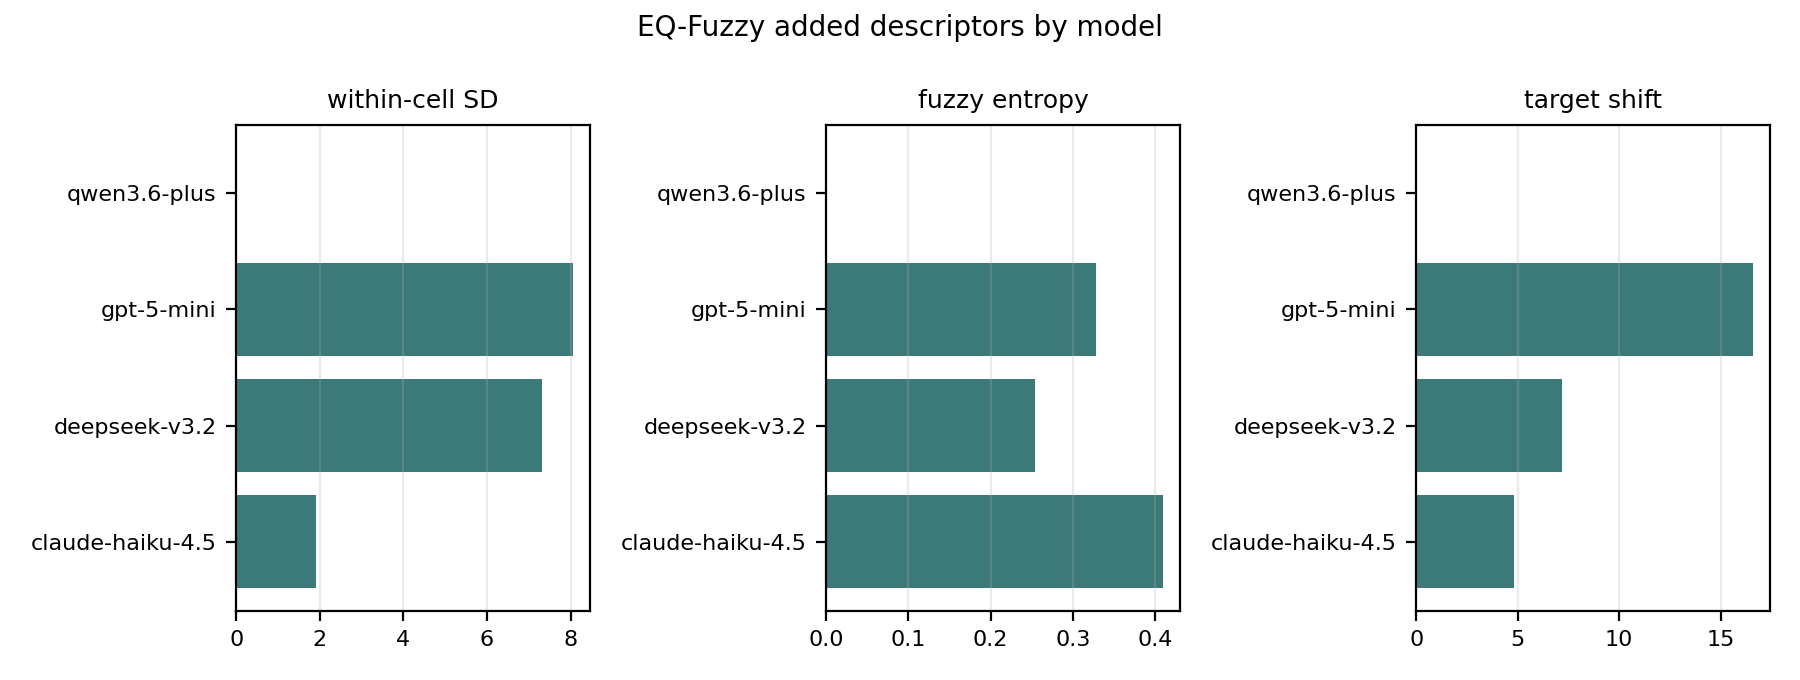
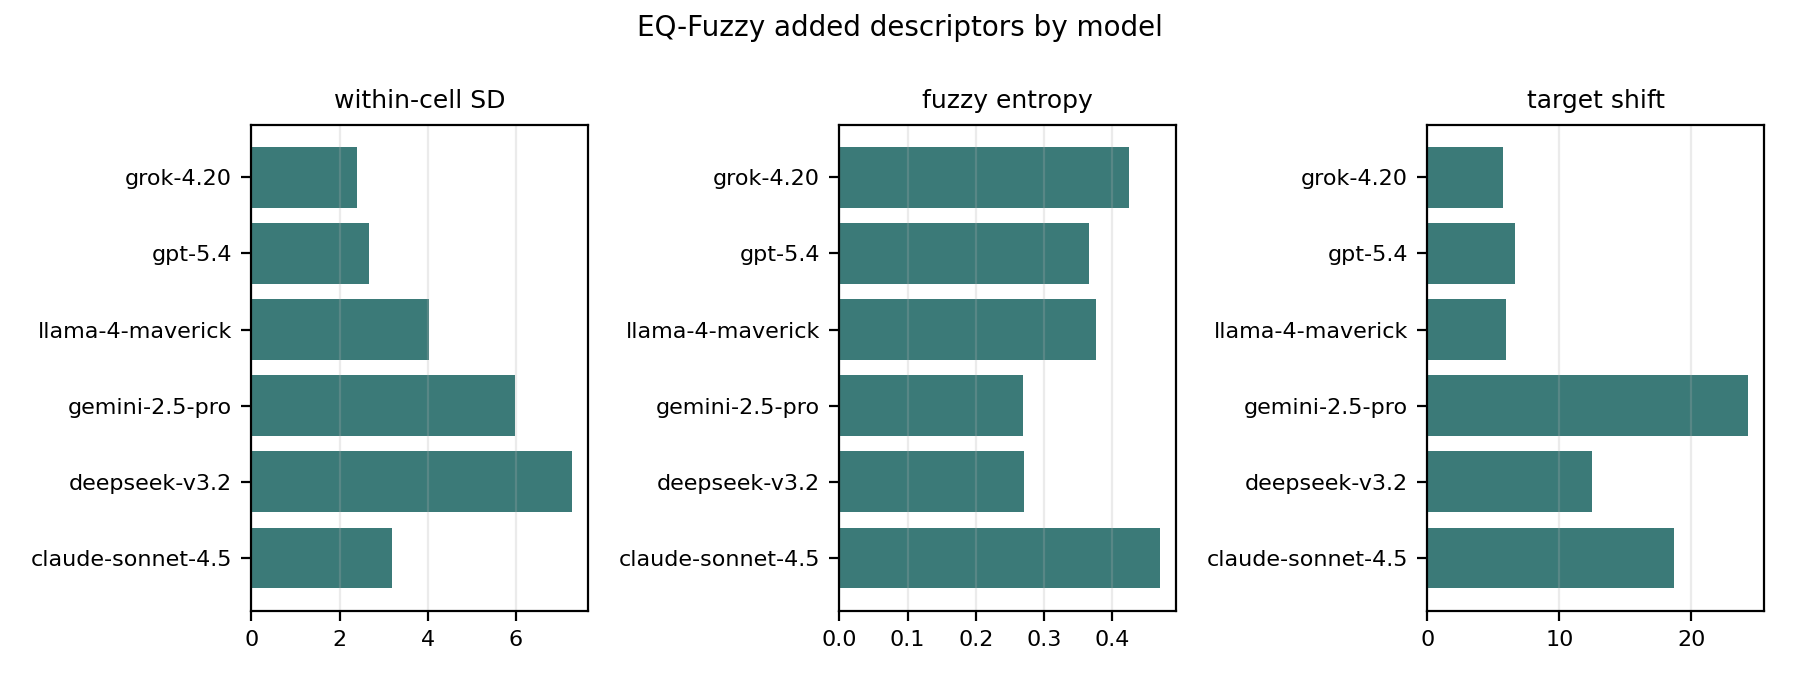
Refresh ICICIC stable6 tables and figures

diff --git a/artifacts/icicic2026/main_tables_v1/table3_target_shift_by_model_emotion.tex b/artifacts/icicic2026/main_tables_v1/table3_target_shift_by_model_emotion.tex
@@ -2,17 +2,29 @@
 \hline
 model id & emotion & n cells & mean target shift abs & max target shift abs \\
 \hline
-anthropic/claude-haiku-4.5 & anger & 3 & 12.3 & 27.5 \\
-anthropic/claude-haiku-4.5 & interest & 3 & 0.2 & 0.6 \\
-anthropic/claude-haiku-4.5 & sadness & 3 & 5.866667 & 15.0 \\
-anthropic/claude-haiku-4.5 & surprise & 3 & 0.966667 & 1.5 \\
-deepseek/deepseek-v3.2 & anger & 3 & 17.0 & 35.0 \\
-deepseek/deepseek-v3.2 & interest & 3 & 4.5 & 12.5 \\
-deepseek/deepseek-v3.2 & sadness & 3 & 3.466667 & 6.9 \\
-deepseek/deepseek-v3.2 & surprise & 3 & 3.833333 & 5.0 \\
-openai/gpt-5-mini & anger & 3 & 18.666667 & 41.0 \\
-openai/gpt-5-mini & interest & 3 & 15.566667 & 21.5 \\
-openai/gpt-5-mini & sadness & 3 & 26.0 & 38.0 \\
-openai/gpt-5-mini & surprise & 3 & 6.166667 & 9.5 \\
+anthropic/claude-sonnet-4.5 & anger & 3 & 27.3 & 57.2 \\
+anthropic/claude-sonnet-4.5 & interest & 3 & 25.666667 & 57.0 \\
+anthropic/claude-sonnet-4.5 & sadness & 3 & 7.166667 & 10.4 \\
+anthropic/claude-sonnet-4.5 & surprise & 3 & 14.733333 & 42.8 \\
+deepseek/deepseek-v3.2 & anger & 3 & 24.333333 & 47.0 \\
+deepseek/deepseek-v3.2 & interest & 3 & 13.833333 & 39.0 \\
+deepseek/deepseek-v3.2 & sadness & 3 & 1.5 & 2.5 \\
+deepseek/deepseek-v3.2 & surprise & 3 & 10.2 & 15.1 \\
+google/gemini-2.5-pro & anger & 3 & 36.833333 & 85.5 \\
+google/gemini-2.5-pro & interest & 3 & 27.333333 & 43.0 \\
+google/gemini-2.5-pro & sadness & 3 & 8.5 & 15.0 \\
+google/gemini-2.5-pro & surprise & 3 & 24.5 & 48.0 \\
+meta-llama/llama-4-maverick & anger & 3 & 11.0 & 28.0 \\
+meta-llama/llama-4-maverick & interest & 3 & 3.0 & 8.0 \\
+meta-llama/llama-4-maverick & sadness & 3 & 3.666667 & 9.0 \\
+meta-llama/llama-4-maverick & surprise & 3 & 6.0 & 9.0 \\
+openai/gpt-5.4 & anger & 3 & 3.666667 & 5.6 \\
+openai/gpt-5.4 & interest & 3 & 17.233333 & 37.1 \\
+openai/gpt-5.4 & sadness & 3 & 1.6 & 2.7 \\
+openai/gpt-5.4 & surprise & 3 & 4.066667 & 7.7 \\
+x-ai/grok-4.20 & anger & 3 & 10.833333 & 18.5 \\
+x-ai/grok-4.20 & interest & 3 & 2.5 & 4.0 \\
+x-ai/grok-4.20 & sadness & 3 & 4.666667 & 9.0 \\
+x-ai/grok-4.20 & surprise & 3 & 5.0 & 9.5 \\
 \hline
 \end{tabular}

diff --git a/artifacts/icicic2026/main_tables_v1/table4_valid_output_by_target_mode.tex b/artifacts/icicic2026/main_tables_v1/table4_valid_output_by_target_mode.tex
@@ -2,13 +2,17 @@
 \hline
 model id & target mode & n cells & mean valid output rate & min valid output rate \\
 \hline
-anthropic/claude-haiku-4.5 & character\_side & 12 & 1.0 & 1.0 \\
-anthropic/claude-haiku-4.5 & reader\_side & 12 & 1.0 & 1.0 \\
+anthropic/claude-sonnet-4.5 & character\_side & 12 & 1.0 & 1.0 \\
+anthropic/claude-sonnet-4.5 & reader\_side & 12 & 1.0 & 1.0 \\
 deepseek/deepseek-v3.2 & character\_side & 12 & 1.0 & 1.0 \\
 deepseek/deepseek-v3.2 & reader\_side & 12 & 1.0 & 1.0 \\
-openai/gpt-5-mini & character\_side & 12 & 1.0 & 1.0 \\
-openai/gpt-5-mini & reader\_side & 12 & 1.0 & 1.0 \\
-qwen/qwen3.6-plus & character\_side & 12 & 0.0 & 0.0 \\
-qwen/qwen3.6-plus & reader\_side & 12 & 0.0 & 0.0 \\
+google/gemini-2.5-pro & character\_side & 12 & 1.0 & 1.0 \\
+google/gemini-2.5-pro & reader\_side & 12 & 1.0 & 1.0 \\
+meta-llama/llama-4-maverick & character\_side & 12 & 1.0 & 1.0 \\
+meta-llama/llama-4-maverick & reader\_side & 12 & 1.0 & 1.0 \\
+openai/gpt-5.4 & character\_side & 12 & 1.0 & 1.0 \\
+openai/gpt-5.4 & reader\_side & 12 & 1.0 & 1.0 \\
+x-ai/grok-4.20 & character\_side & 12 & 1.0 & 1.0 \\
+x-ai/grok-4.20 & reader\_side & 12 & 1.0 & 1.0 \\
 \hline
 \end{tabular}

diff --git a/artifacts/icicic2026/main_tables_v1/table2_model_added_descriptors.tex b/artifacts/icicic2026/main_tables_v1/table2_model_added_descriptors.tex
@@ -2,9 +2,11 @@
 \hline
 model id & valid output rate & mean within cell sd score & mean cell H norm & mean profile entropy & mean target shift abs \\
 \hline
-anthropic/claude-haiku-4.5 & 1.0 & 1.909045 & 0.410033 & 0.956852 & 4.833333 \\
-deepseek/deepseek-v3.2 & 1.0 & 7.328458 & 0.253647 & 0.780831 & 7.2 \\
-openai/gpt-5-mini & 1.0 & 8.0624 & 0.328239 & 0.878663 & 16.6 \\
-qwen/qwen3.6-plus & 0.0 &  &  &  &  \\
+anthropic/claude-sonnet-4.5 & 1.0 & 3.197648 & 0.469909 & 0.851784 & 18.716667 \\
+deepseek/deepseek-v3.2 & 1.0 & 7.268133 & 0.270318 & 0.774712 & 12.466667 \\
+google/gemini-2.5-pro & 1.0 & 5.978447 & 0.269219 & 0.743199 & 24.291667 \\
+meta-llama/llama-4-maverick & 1.0 & 4.031645 & 0.37615 & 0.889589 & 5.916667 \\
+openai/gpt-5.4 & 1.0 & 2.676327 & 0.365859 & 0.863257 & 6.641667 \\
+x-ai/grok-4.20 & 1.0 & 2.403945 & 0.425034 & 0.931072 & 5.75 \\
 \hline
 \end{tabular}

diff --git a/scripts/icicic2026/build_icicic_primary_figures.py b/scripts/icicic2026/build_icicic_primary_figures.py
@@ -141,6 +141,9 @@ def build_primary_figures(*, matrix_path: Path, analysis_dir: Path, output_dir: 
     write_csv(figures, manifest_path)
     summary = {
         "figure_set": "icicic2026_main_figures_v1",
+        "matrix_path": str(matrix_path),
+        "analysis_dir": str(analysis_dir),
+        "output_dir": str(output_dir),
         "n_figures": len(figures),
         "figure_manifest": str(manifest_path),
         "claim_discipline": "descriptive figures only",

diff --git a/tests/test_icicic_positioning.py b/tests/test_icicic_positioning.py
@@ -306,6 +306,7 @@ class IcicicPositioningTest(unittest.TestCase):
             self.assertEqual(table_summary["n_model_rows"], 1)
             self.assertTrue((tmp_path / "tables" / "table2_model_added_descriptors.tex").exists())
             self.assertEqual(figure_summary["n_figures"], 2)
+            self.assertEqual(figure_summary["analysis_dir"], str(analysis_dir))
             self.assertTrue((tmp_path / "figures" / "figure_manifest.csv").exists())
             self.assertGreater((tmp_path / "figures" / "figure1_benchmark_coverage_map.png").stat().st_size, 0)
             self.assertGreater((tmp_path / "figures" / "figure2_added_descriptor_overview.png").stat().st_size, 0)

diff --git a/artifacts/icicic2026/main_result_summary_v1.md b/artifacts/icicic2026/main_result_summary_v1.md
@@ -1,0 +1,29 @@
+# ICICIC 2026 main result summary v1
+
+This note distinguishes the accepted stable6 main result from the earlier
+budget4 pilot artifacts.
+
+## Accepted main result
+
+- Run: `runs/icicic2026/icicic2026_benchmark_positioning_v1_stable6_main/`
+- Raw output: `runs/icicic2026/icicic2026_benchmark_positioning_v1_stable6_main/raw.jsonl`
+- Analysis: `artifacts/icicic2026/matched_subset_stable6_analysis_v1/`
+- Tables: `artifacts/icicic2026/main_tables_v1/`
+- Figures: `artifacts/icicic2026/main_figures_v1/`
+- Model panel: `configs/icicic/models_stable6_from_scis.yaml`
+- Response rows: 360
+- Emotion rows: 1440
+- Valid-output rate: 1.0 for all six models
+
+The stable6 outputs are the manuscript-facing ICICIC main materials for the
+matched-subset analysis.
+
+## Pilot provenance
+
+The earlier Qwen-containing budget4 artifacts remain pilot/provenance material
+only. They showed schema noncompliance for `qwen/qwen3.6-plus` and should not
+be used as the final ICICIC main panel.
+
+ICICIC remains a benchmark-positioning paper. These artifacts support
+descriptive uncertainty, stability, and target-control reporting only; they do
+not establish universal benchmark superiority or standalone human validity.